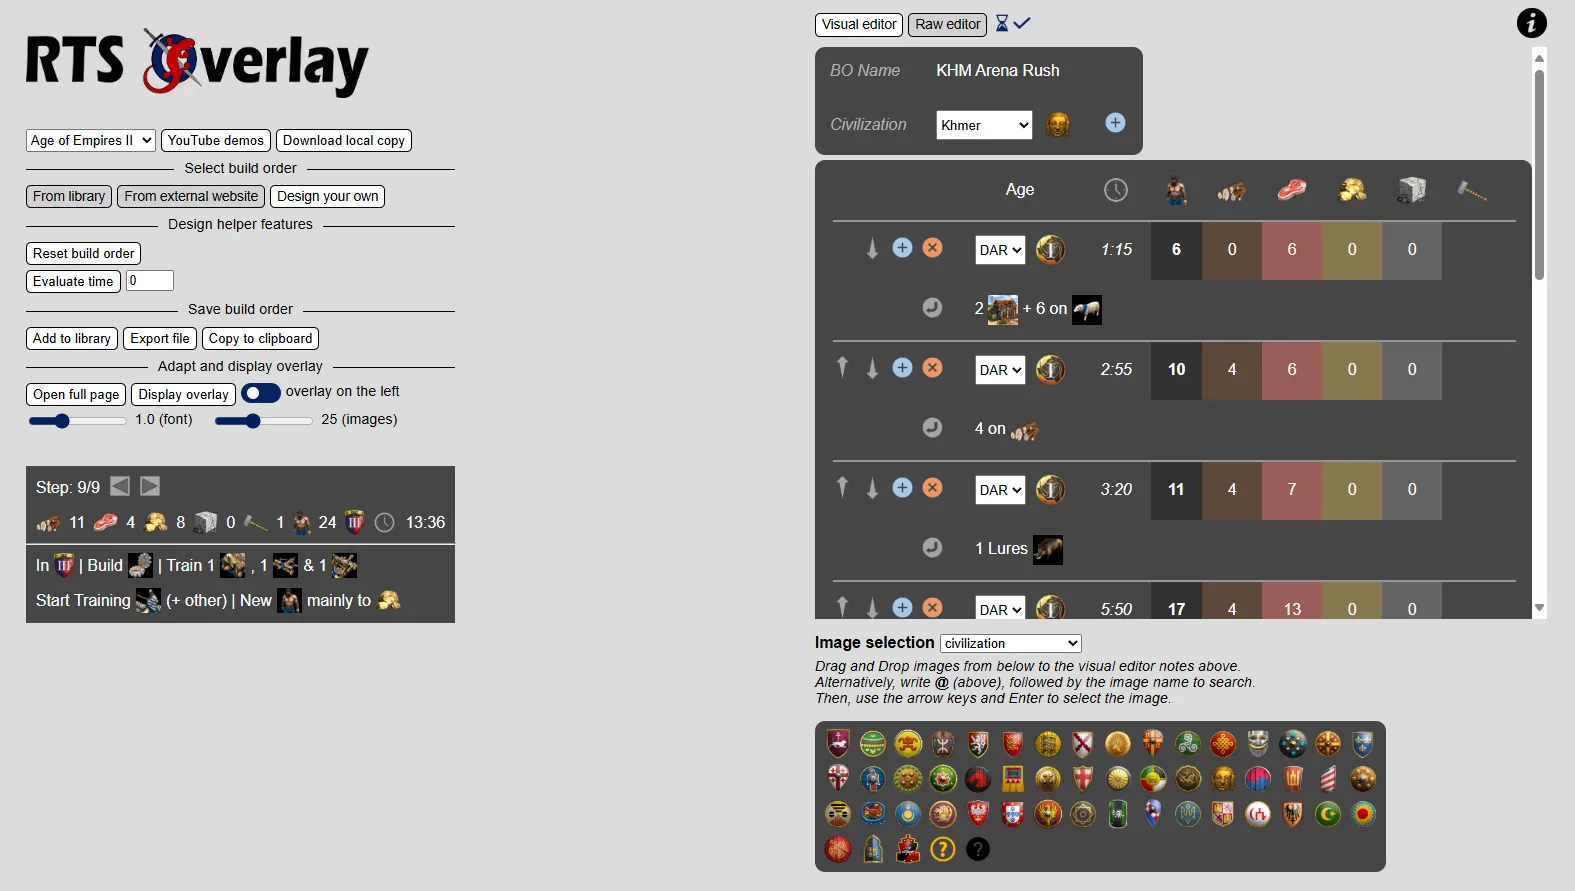
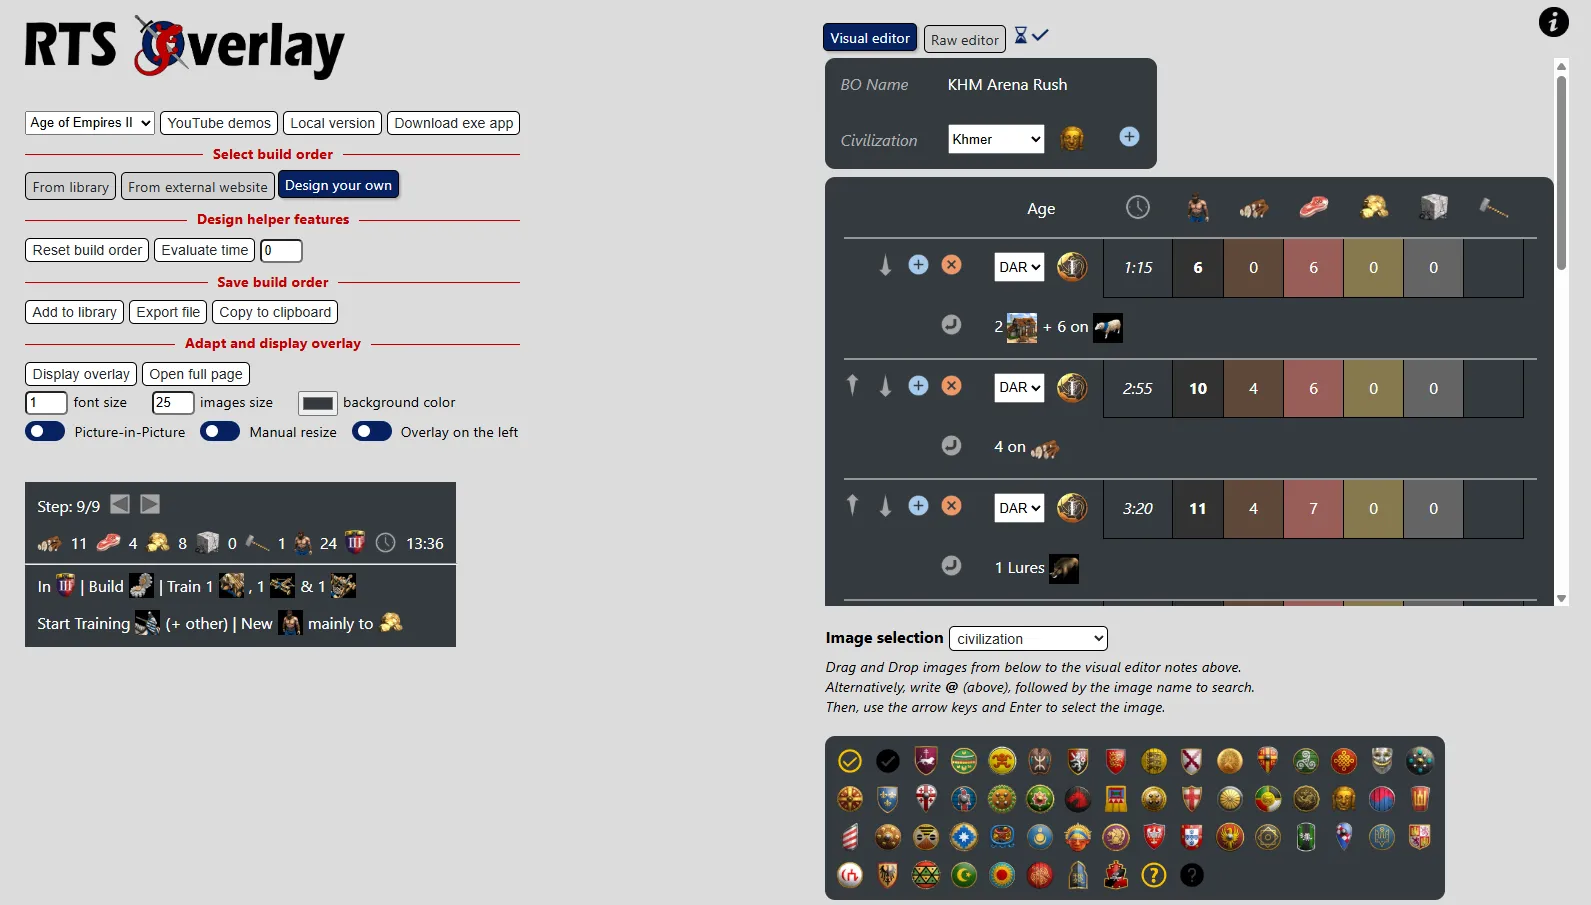
readme update

Changed region(s): [[0.4978, 0.0, 0.9956, 1.0], [0.0, 0.0, 0.3422, 0.4848], [0.0, 0.5152, 0.3111, 0.7273]]

diff --git a/Readme.md b/Readme.md
@@ -67,7 +67,7 @@ The Exe/Python solution (from source or pre-compiled) offers some additional fun
 
 How to run:
 * **Web solution**: Go to [rts-overlay.github.io](https://rts-overlay.github.io/) and follow the instructions.
-    * To keep it on top of your game while playing, use an *Always On Top* application. For Windows, [PowerToys](https://learn.microsoft.com/en-us/windows/powertoys/) is a good solution. It is free, developed by Microsoft and available on the [Microsoft Store](https://apps.microsoft.com/).
+    * There are two modes: 'Picture-in-Picture' (should keep your overlay automatically on top of your game) and 'Classical window'. To keep it on top of your game while playing in 'Classical window' mode, use an *Always On Top* application. For Windows, [PowerToys](https://learn.microsoft.com/en-us/windows/powertoys/) is a good solution. It is free, developed by Microsoft and available on the [Microsoft Store](https://apps.microsoft.com/).
     * You can also download a local version to improve the speed, work offline and customize the experience. [Click here](https://github.com/CraftySalamander/RTS_Overlay/archive/refs/heads/master.zip), unzip and open *docs/index.html* with any web browser. Alternatively, you can click on the installation button in the URL bar (for Chrome and Edge) to install it locally.
     * The development (non-stable) version is available [here](https://craftysalamander.github.io/RTS_Overlay/).
 * **EXE/Python solution**: Download the EXE [here](#main-instructions-and-download) or follow the Python instructions [here](#python-configuration).
@@ -91,7 +91,7 @@ At the moment, the following games are supported:
 [![AoE4 build order in action](/readme/aoe4_build_order_demo.webp)](https://youtu.be/RmsofE58YEg)
 
 * [Age of Mythology](https://www.ageofempires.com/games/aom/age-of-mythology-retold/)
-    * Download any build order from [thedodclan.com](https://thedodclan.com/build-orders/) (click on the scroll icon) or [RTS Builds](https://craftysalamander.github.io/rtsbuilds/?gameId=aom) (click on *Open in RTS Overlay*).
+    * Download any build order from [RTS Builds](https://craftysalamander.github.io/rtsbuilds/?gameId=aom) (click on *Open in RTS Overlay*) ([thedodclan.com](https://thedodclan.com/) used to provide export function for RTS Overlay, but they dropped the feature in their website redesign).
     * See YouTube demo [here](https://youtu.be/f11ISkuVhnU).
 
 [![AoM build order in action](/readme/aom_build_order_demo.webp)](https://youtu.be/f11ISkuVhnU)
@@ -106,14 +106,15 @@ At the moment, the following games are supported:
 # Web solution
 
 The main page of the [web version](https://rts-overlay.github.io/) is visible below.
-Full instructions are available when hovering during a short time on the "i" icon on the top right of the page.
+Full instructions are available when hovering on the "i" icon on the top right of the page.
 
 ![Web-based version of RTS Overlay](/readme/rts_overlay_web.webp)
 
 ## Always On Top
 
 Once the build order is ready, click on the *Display overlay* button to generate a new (small) window with the requested build order.
-Be sure to use an *Always On Top* application to keep it on top of your game.
+
+In "Classical window" mode, be sure to use an *Always On Top* application to keep it on top of your game (no need for the "Picture-in-Picture" mode).
 
 [Microsoft PowerToys](https://learn.microsoft.com/en-us/windows/powertoys/) is a good solution. It is free, developed by Microsoft and available on the *Microsoft Store*.
 Download it from the *Microsoft Store*, configure the hotkey for the *Always On Top* feature (you can also configure the border color) and use it on the *RTS Overlay* window.
@@ -173,6 +174,7 @@ The first row contains the following action buttons (from left to right):
 * [Save settings](docs/assets/common/action_button/save.webp): Save the configuration in a settings file (e.g. *aoe2_settings.py*).
 * [Load settings](docs/assets/common/action_button/load.webp): Load the settings of the aforementioned file (this file is automatically loaded at launch).
 * [Configuration](docs/assets/common/action_button/gears.webp): Configure the hotkeys (using keyboard and/or mouse inputs) and open the folder where the corresponding configuration files are saved. This folder contains both the settings and the build orders. To add a build order, obtain its JSON file (from [craftysalamander.github.io/rtsbuilds](https://craftysalamander.github.io/rtsbuilds), a third party or design it on [rts-overlay.github.io](https://rts-overlay.github.io)) and place it in the sub-folder `build_orders` (fron this configuration folder). For AoE2, this sub-folder is typically *C:\Users\XXXXX\AppData\Local\RTS_Overlay\aoe2\build_orders*.
+* [Open build order folder](docs/assets/common/action_button/feather.webp): Open the build order folder to add/remove/update your build order collection.
 * Choose the font size of the text police.
 * Choose the scaling of the layout (images, spacing...).
     * When using a 4K display, you can for instance set this value to *200 %*.
